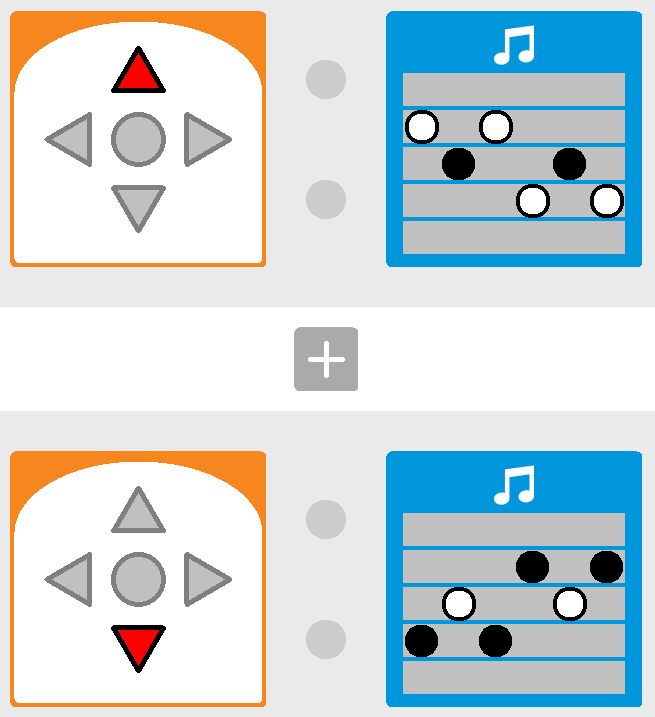
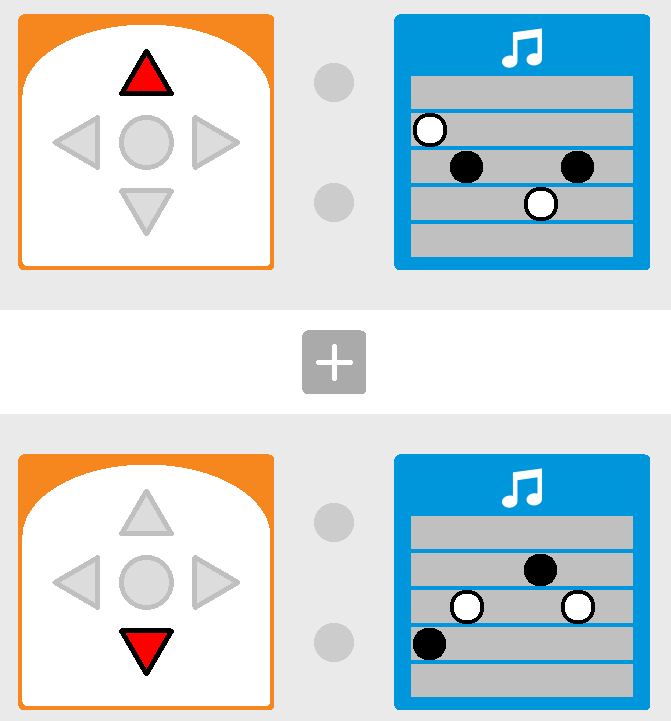
Music block now has rests.

diff --git a/docs/en/vpl-bells.tex b/docs/en/vpl-bells.tex
@@ -12,9 +12,10 @@ to play simple tunes using the music action block: \blkc{action-music}
 
 You won't become a new Beethoven---you can only play six notes using
 five tones of two different lengths---but you can compose a short tune.
-\Cref{fig.music} shows two event-actions pairs that respond with a tune
-when the front or back button is touched. A different tune associated
-with each event.
+\Cref{fig.music} shows two event-actions pairs that causes a tune to be
+played when the front or the back button is touched. A different tune
+associated with each event: twice long-short-rest or twice
+short-long-rest.
 
 \begin{figure}
 \begin{center}
@@ -23,11 +24,11 @@ with each event.
 \end{center}
 \end{figure}
 
-The six small circles are notes. A black note is a short note and a
-white note is a long note; to change from one length to the other, click
-on the circle. There are five colored horizontal bars, representing five
-tones. To move a circle to one of bars, click on the bar above or
-below the circle, or drag-and-drop the note to a bar.
+The six small circles are notes. A black circle is a short note, a white
+circle is a long note and a blank is a rest. To change from one length
+to the other, click on the circle. There are five gray horizontal bars,
+representing five tones. To move a circle to one of bars, click on the
+bar above or below the circle, or drag-and-drop the note to a bar.
 
 \exercisebox{\thechapter.1}{
 Write a program that will enable you to send a message is

diff --git a/docs/en/vpl-blocks.tex b/docs/en/vpl-blocks.tex
@@ -103,12 +103,12 @@ light, respectively.
 \blksm{action-colors-down} \textbf{Bottom lights}. Turns the bottom
 lights on. Use like the previous block.
 
-\bigskip\bigskip\bigskip\bigskip
+\bigskip\bigskip
 
 \blksm{action-music} \textbf{Music}. The six small circles are notes. A
-black note is short and a white note is long. Click on a circle to
-change the length. The five horizontal bars, represent tones. Click on
-the bar to move a circle to that bar.
+black circle is a short note, a white circle is a long note and a blank
+is a rest. Click on a circle to change the length. The five horizontal
+bars, represent tones. Click on the bar to move a circle to that bar.
 
 \bigskip\bigskip
 

diff --git a/docs/en/vpl-front.tex b/docs/en/vpl-front.tex
@@ -33,7 +33,7 @@ see \texttt{authors.txt} for details
 \vskip 1cm
 
 \begin{Large}
-Version 1.4{\textasciitilde}pre1 for \href{https://www.thymio.org/en:downloadinstall}{Aseba 1.4}
+Version 1.4 for \href{https://www.thymio.org/en:downloadinstall}{Aseba 1.4}
 \end{Large}
 
 \end{center}
